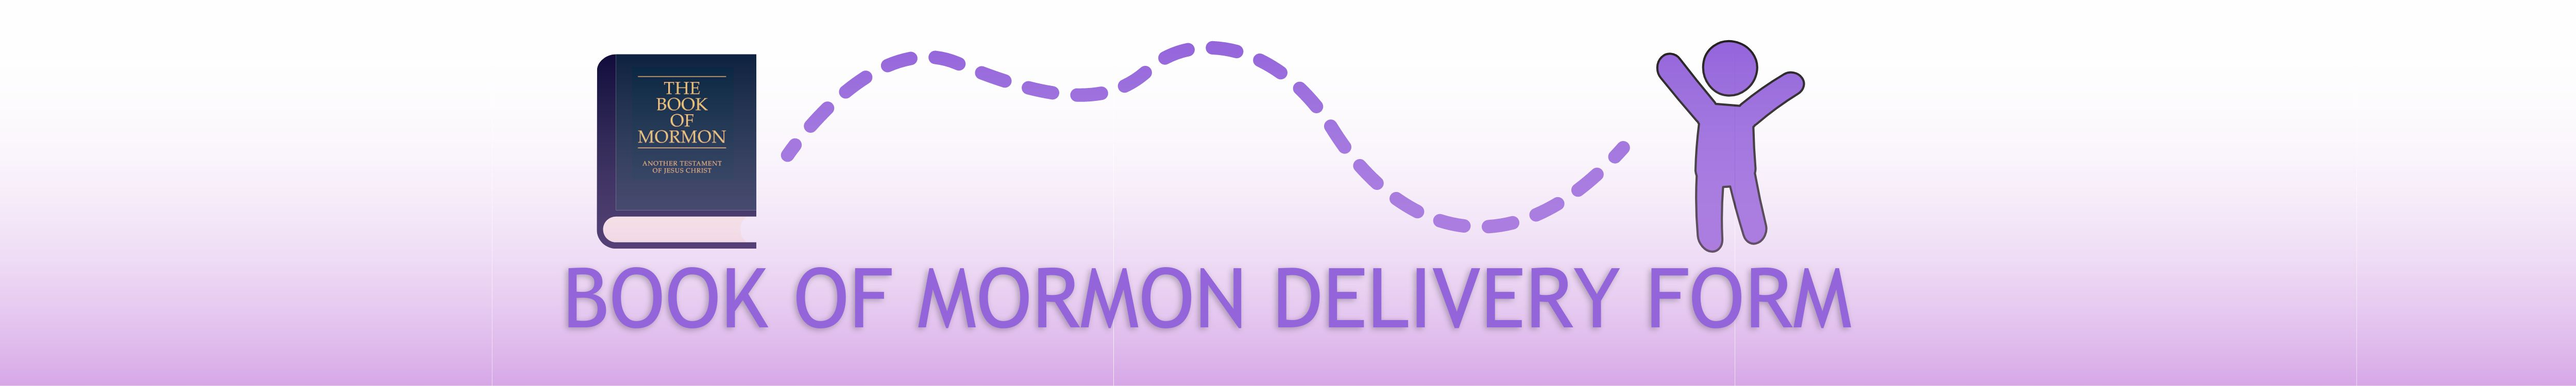
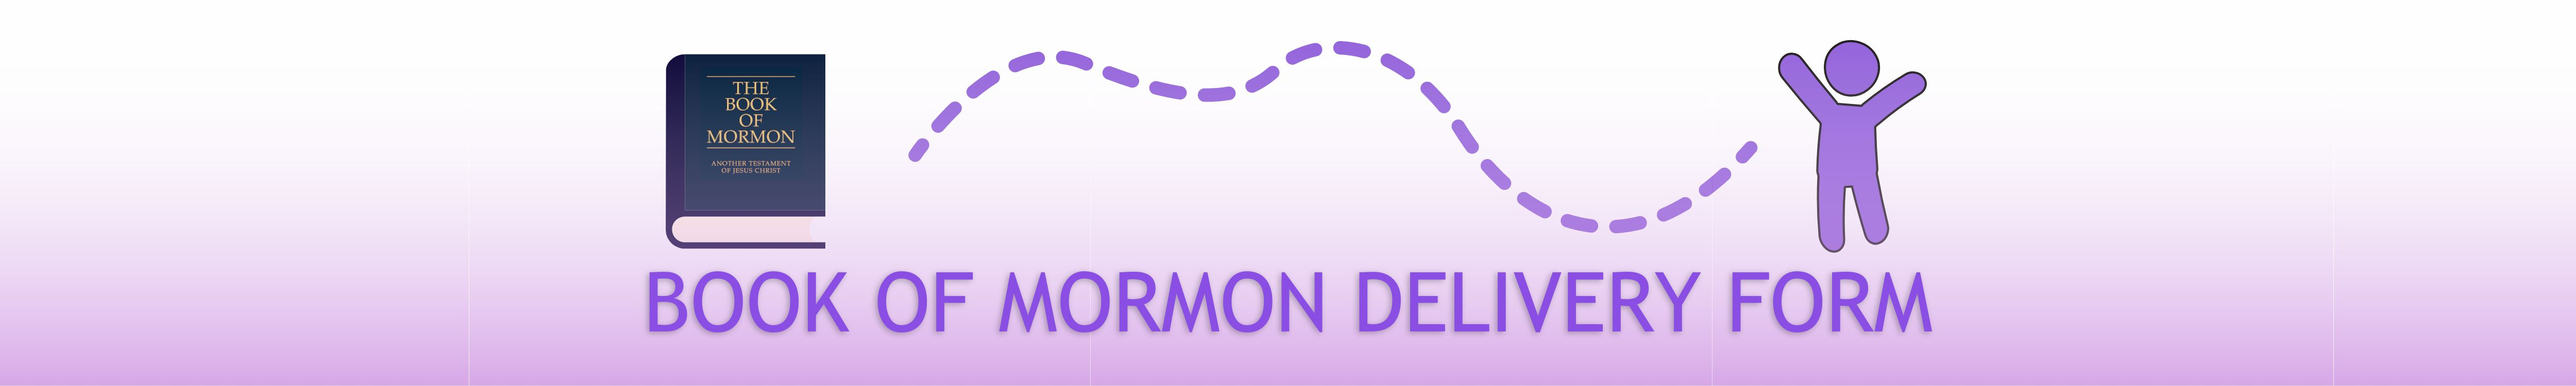
Updated home page link btn images

diff --git a/index.html b/index.html
@@ -109,7 +109,7 @@
     </div>
     <div class="full_width_home_btn">
       <a id="adDeck" target="_blank" href="">
-        <div class="bigTipBtn" style="background-image: url('img/BookofMormonDeliverInvert.jpg'); border: 1px solid #f2bfff;"></div>
+        <div class="bigTipBtn" style="background-image: url('img/CurrentAdsInvert.jpg'); border: 1px solid #f2bfff;"></div>
       </a>
     </div>
 
